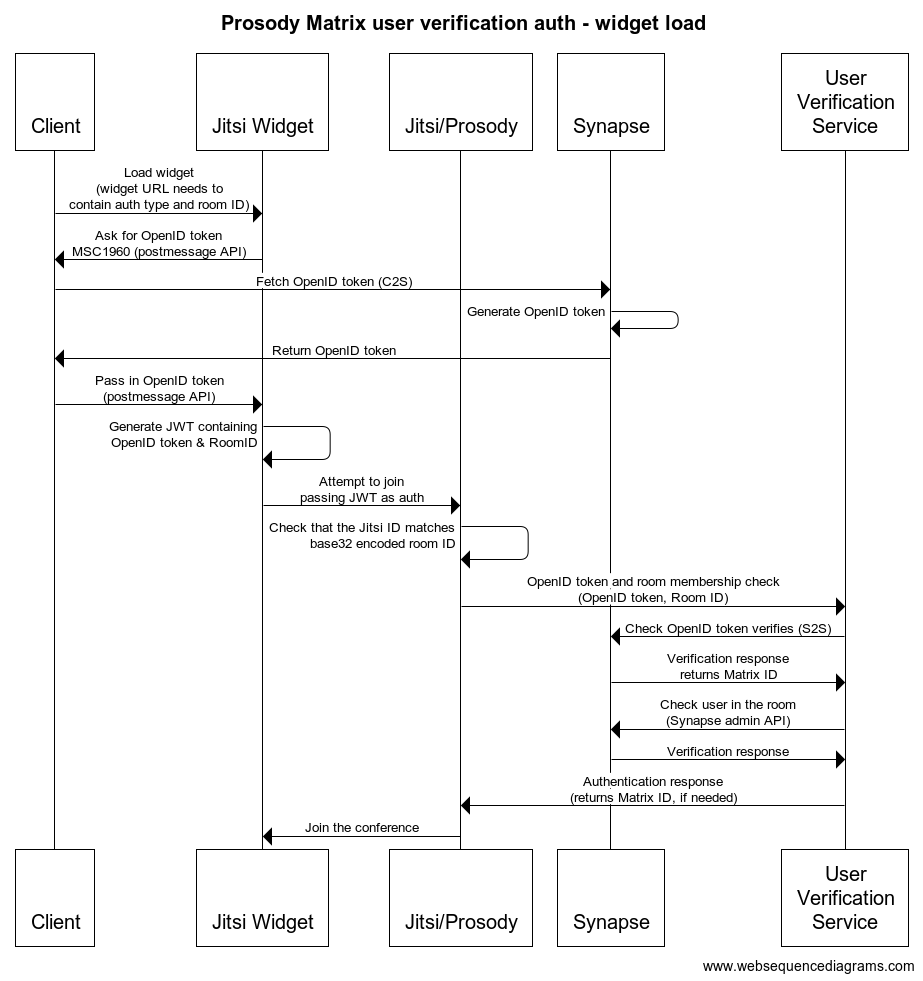
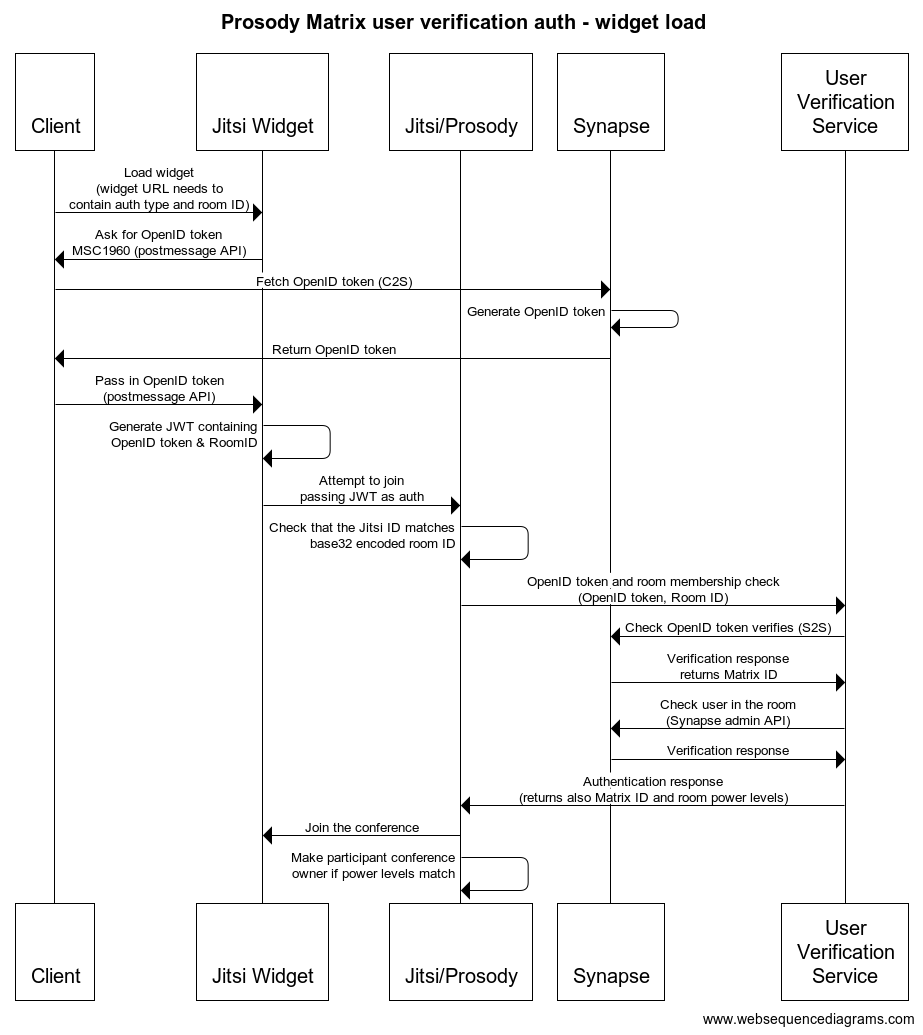
Sync conference power levels on join
When the user joins the conference, we catch the
`muc-occupant-joined` event and make them an owner
if they were marked as one during auth.

During auth, if we get power levels back from UVS
(see https://github.com/matrix-org/matrix-user-verification-service/pull/7), we compare the users power level in the
room to "state_default" of the room and if the
user is equal or more, we mark them as owner.
This allows them to do moderation in the Jitsi
conference side.

diff --git a/README.md b/README.md
@@ -9,6 +9,9 @@ and [Matrix user verification service](https://github.com/matrix-org/matrix-user
 to handle verifying a given Matrix user exists and that they are in a room that
 matches the Jitsi room ID.
 
+Additionally, can amke the verified user an owner of the conference if power level
+syncing has been turned on.
+
 ## Flow diagrams
 
 These diagrams explain how the different components fit together around this Prosody module.
@@ -99,6 +102,13 @@ VirtualHost "example.com"
     -- (optional) UVS auth token, if authentication enabled
     -- Uncomment and set the right token if necessary
     --uvs_auth_token = "changeme"
+    -- (optional) Make Matrix room moderators owners of the Prosody room.
+    -- Enabling this will mean once a participant, authed using this module,
+    -- joins a call, their power in the relevant Matrix room will be checked
+    -- via UVS and if they have more or equal the configured power here,
+    -- they will be made an owner of the Prosody room.
+    -- This is disabled by default, uncomment with a sufficient level below.
+    --uvs_sync_power_levels = true
 ```
 
 The prosody image needs to have the Lua module `http` installed. Install it with LuaRocks:

diff --git a/diagram_sources.md b/diagram_sources.md
@@ -47,7 +47,9 @@ Synapse->UVS: Verification response\nreturns Matrix ID
 UVS->Synapse: Check user in the room\n(Synapse admin API)
 Synapse->UVS: Verification response
 
-UVS->Jitsi: Authentication response\n(returns Matrix ID, if needed)
+UVS->Jitsi: Authentication response\n(returns also Matrix ID and room power levels)
 
 Jitsi->Widget: Join the conference
+
+Jitsi->Jitsi: Make participant conference\nowner if power levels match
 ```
